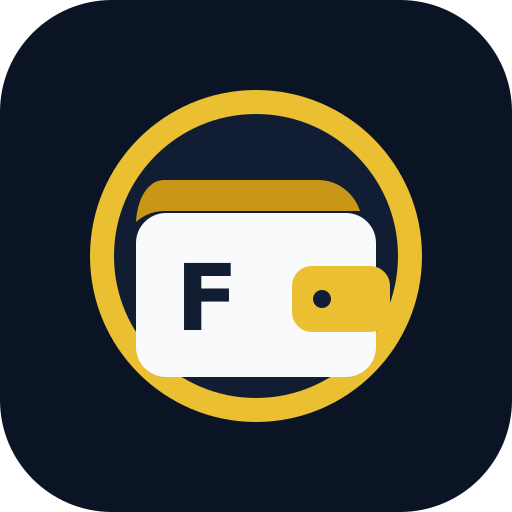
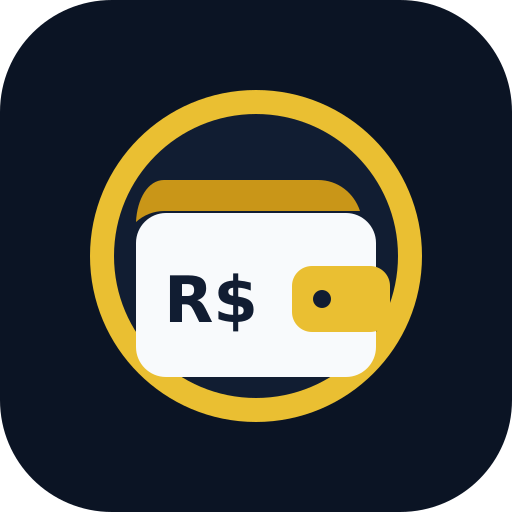
Add files via upload

Changed region(s): [[0.3125, 0.5, 0.5, 0.6562]]

diff --git a/index.html b/index.html
@@ -18,9 +18,9 @@
 <meta name="twitter:title" content="Finanças Família">
 <meta name="twitter:description" content="Organização financeira familiar">
 <meta name="twitter:image" content="https://periciahard.github.io/financas/icons/social-preview.png?v=1">
-<link rel="manifest" href="manifest.webmanifest?v=33.3.13">
-<link rel="icon" type="image/png" sizes="192x192" href="icons/icon-192.png?v=2">
-<link rel="apple-touch-icon" href="icons/icon-192.png?v=2">
+<link rel="manifest" href="manifest.webmanifest?v=33.3.15">
+<link rel="icon" type="image/png" sizes="192x192" href="icons/icon-192.png?v=3">
+<link rel="apple-touch-icon" href="icons/icon-192.png?v=3">
 <meta name="apple-mobile-web-app-capable" content="yes">
 <meta name="apple-mobile-web-app-status-bar-style" content="black-translucent">
 <meta name="apple-mobile-web-app-title" content="Finanças Família">
@@ -1584,9 +1584,9 @@ button:hover,.linkBtn:hover{transform:translateY(-1px);filter:brightness(1.05)}
   #dashboard #kpis,.executiveKpis{grid-template-columns:repeat(2,minmax(0,1fr))!important;gap:7px!important}
   #dashboard #kpis .kpiExecutive{min-height:66px!important;padding:8px!important;gap:6px!important;overflow:hidden!important}
   #dashboard #kpis .kpiIconExec{width:27px!important;height:27px!important;font-size:14px!important;flex:0 0 auto!important}
-  #dashboard #kpis .kpiText{min-width:0!important;padding:0!important;overflow:hidden!important}
-  #dashboard #kpis .label{font-size:8px!important;white-space:nowrap!important;overflow:hidden!important;text-overflow:ellipsis!important}
-  #dashboard #kpis .value{font-size:14px!important;white-space:nowrap!important;overflow:visible!important;margin-top:3px!important}
+  #dashboard #kpis .kpiText{min-width:0!important;width:100%!important;padding:0 2px!important;overflow:visible!important}
+  #dashboard #kpis .label{display:block!important;max-width:100%!important;padding-left:2px!important;font-size:8px!important;letter-spacing:.045em!important;white-space:nowrap!important;overflow:hidden!important;text-overflow:ellipsis!important}
+  #dashboard #kpis .value{display:block!important;max-width:100%!important;padding-left:2px!important;font-size:13px!important;letter-spacing:-.04em!important;white-space:nowrap!important;overflow:visible!important;margin-top:3px!important}
   #dashboard #kpis .kpiGo{display:none!important}
   #dashboard .sectionTitle{margin-top:11px!important}#dashboard .sectionTitle>h3{font-size:16px!important}
   .budgetAvailableList,.dashboardCategoryList{grid-template-columns:1fr!important;padding:2px 7px!important}
@@ -1756,14 +1756,14 @@ button:hover,.linkBtn:hover{transform:translateY(-1px);filter:brightness(1.05)}
 
 </div>
 <script src="https://cdn.jsdelivr.net/npm/@supabase/supabase-js@2"></script>
-<script src="supabase-config.js?v=33.3.13"></script>
-<script src="financeiro-data.js?v=33.3.13"></script>
-<script src="app.js?v=33.3.13"></script>
+<script src="supabase-config.js?v=33.3.15"></script>
+<script src="financeiro-data.js?v=33.3.15"></script>
+<script src="app.js?v=33.3.15"></script>
 <script>
 if('serviceWorker' in navigator){
   window.addEventListener('load',async()=>{
     try{
-      const reg=await navigator.serviceWorker.register('./sw.js?v=33.3.13',{updateViaCache:'none'});
+      const reg=await navigator.serviceWorker.register('./sw.js?v=33.3.15',{updateViaCache:'none'});
       await reg.update();
       let refreshed=false;
       navigator.serviceWorker.addEventListener('controllerchange',()=>{if(!refreshed){refreshed=true;location.reload()}});

diff --git a/app.js b/app.js
@@ -38,7 +38,7 @@ const FATURA_NUBANK_FELIPE_AGOSTO_2026=[
   {id:'oboticario-2',data:'2026-06-26',empresa:'Hna*Oboticario',valor:30.78,atual:2,total:10,categoria:'Compras'}
 ];
 const TABS=[['dashboard','Dashboard','📊'],['fixas','Despesas fixas','🏠'],['variaveis','Despesas variáveis','🛒'],['cartoes','Cartões','💳'],['orcamentos','Relatórios','📈'],['historico','Exportar / Backup','☁️']];
-const APP_VERSION='V33.3.13';
+const APP_VERSION='V33.3.15';
 const STORE='financasFamiliaV33_2_2InterfaceCompacta';
 const HIST='financasFamiliaHistoricoV33_2_2InterfaceCompacta';
 let state=null;
@@ -353,7 +353,7 @@ async function cloudSave(){
     if(error)throw error;
     setLastSync(savedAt);
     addHist('Sincronização em nuvem','Backup criptografado enviado ao Supabase');
-    alert('Dados criptografados e salvos no Supabase.');
+    alert('Salvo.');
     renderCloudStatus();
   }catch(e){alert('Falha ao salvar na nuvem: '+(e.message||e));}
 }
@@ -370,12 +370,11 @@ async function cloudLoad(){
     try{inner=data.enc?await decryptFromCloud(data,key):data;}
     catch(e){throw new Error('Não foi possível decodificar os dados. Confira se o código familiar está correto.');}
     if(!inner||!inner.state)throw new Error('Nenhum backup encontrado para este código.');
-    if(!confirm('Substituir os dados locais pelos dados salvos no Supabase?'))return;
     state=normalize(inner.state);syncCustomCategories();save();
     if(Array.isArray(inner.history))localStorage.setItem(HIST,JSON.stringify(inner.history.slice(0,500)));
     setLastSync(data.savedAt||new Date().toISOString());
     addHist('Sincronização em nuvem','Backup restaurado e decodificado do Supabase');
-    alert('Dados restaurados do Supabase.');
+    alert('Atualizado.');
     render();
   }catch(e){alert('Falha ao carregar da nuvem: '+(e.message||e));}
 }

diff --git a/sw.js b/sw.js
@@ -1,4 +1,4 @@
-const CACHE_NAME = 'financas-familia-v33-3-13-acoes-nuvem-categorias-receitas';
+const CACHE_NAME = 'financas-familia-v33-3-15-icone-financeiro';
 const APP_SHELL = [
   './',
   './index.html',

diff --git a/CHANGELOG_EXCLUSAO_DESPESAS.md b/CHANGELOG_EXCLUSAO_DESPESAS.md
@@ -161,3 +161,14 @@ Nas despesas fixas e variáveis, a exclusão remove o item e seus valores de tod
 - Categorias criadas ficam disponíveis nos formulários, compras de cartão e alterações de categoria, além de serem sincronizadas com os demais dados.
 - Incluído o campo “Receitas extras” nas receitas mensais.
 - Receitas extras passam a compor o total de receitas, o saldo e todas as projeções e relatórios.
+
+## Confirmações e indicadores móveis
+
+- Confirmação de sincronização reduzida para “Salvo” e “Atualizado”.
+- Atualização pela nuvem passa a executar diretamente pelo botão correspondente.
+- Ajustado o espaço interno dos indicadores do Dashboard no celular para preservar títulos e valores completos.
+
+## Ícone do aplicativo
+
+- Criado ícone financeiro com carteira e símbolo “R$” para o atalho salvo na tela inicial do celular.
+- Atualizadas as referências do manifesto, favicon e ícone do iPhone para evitar o reaproveitamento do ícone antigo.